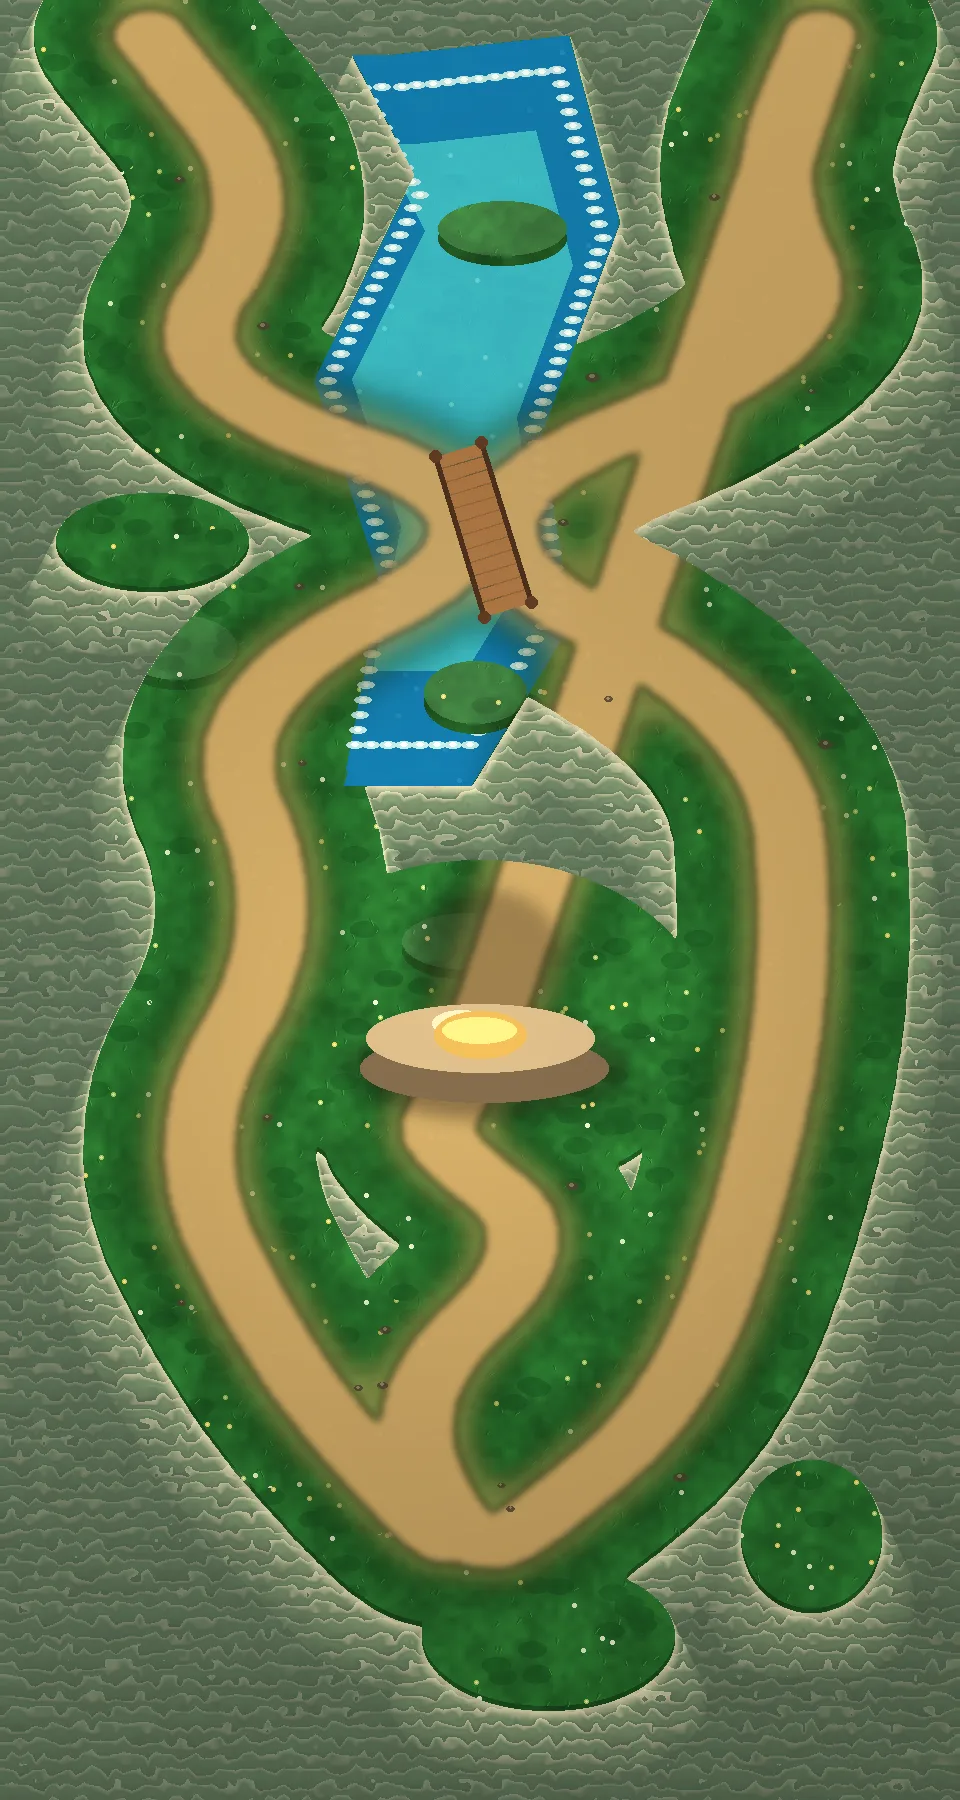
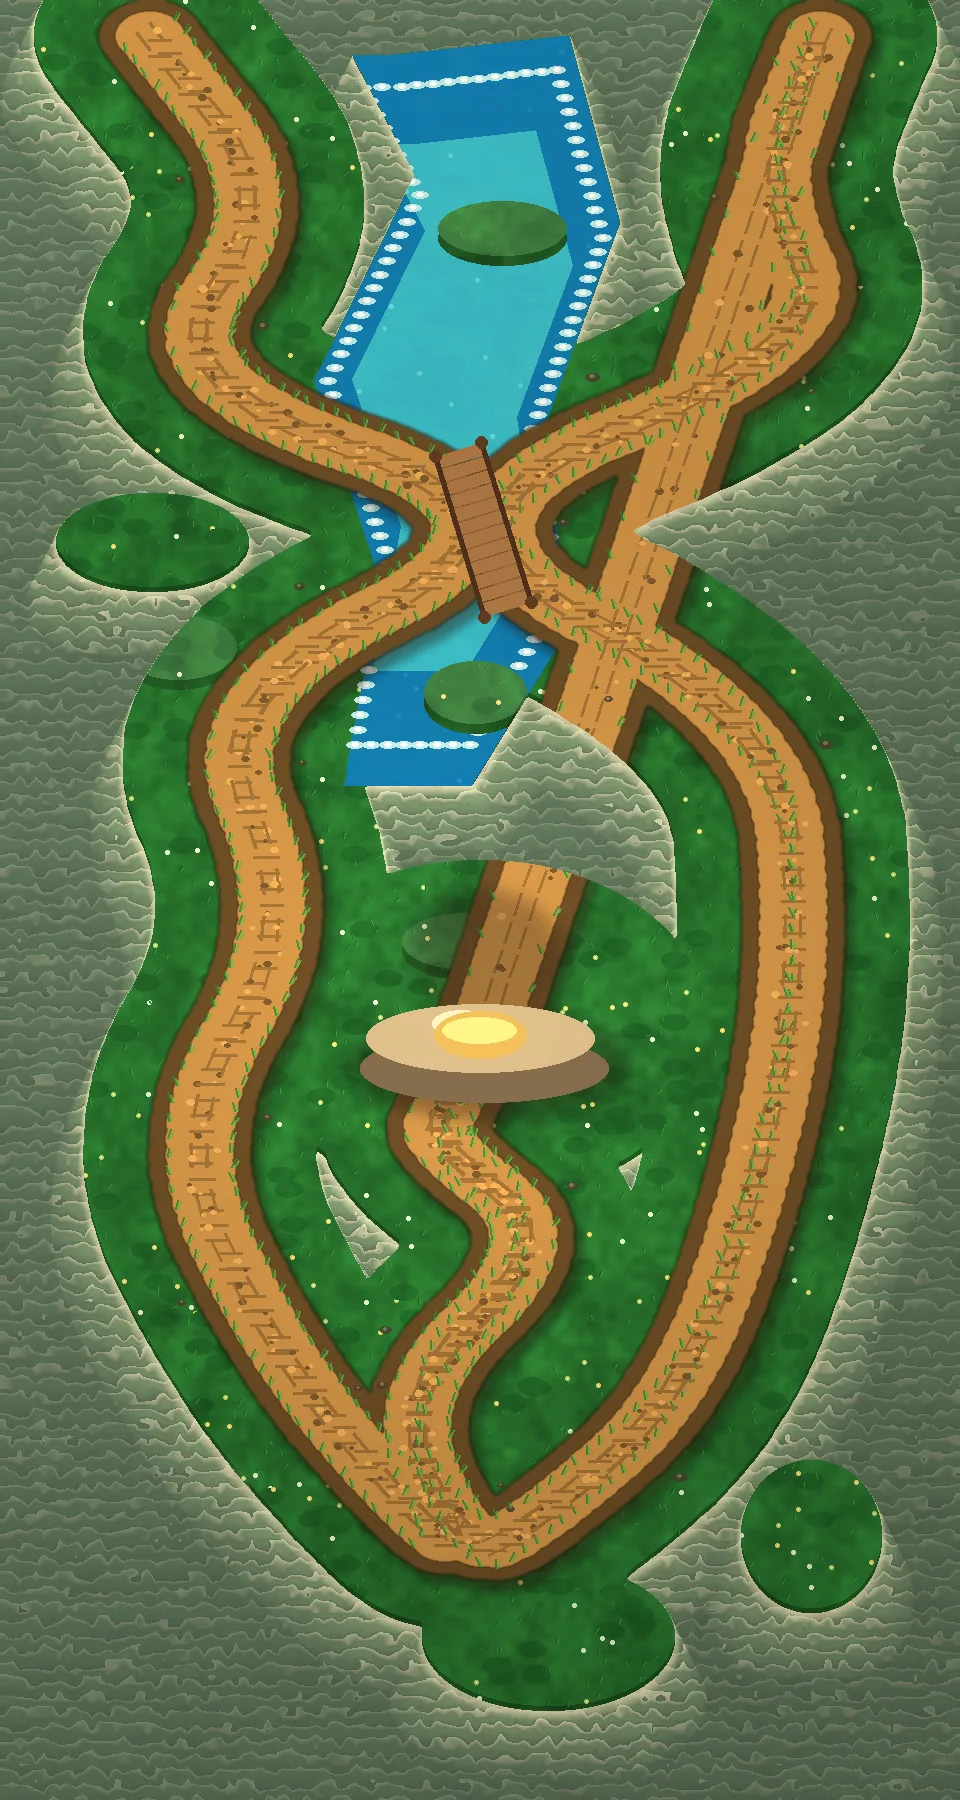
Give every valley road a saturated dirt or stone color.
The painted paths were pale, and Twin Canyon's mint blend disappeared into the grass. Each road is now an opaque warm ribbon with a dark worn edge, a soft shadow, ruts or flagstone joints, pebbles, and grass tufts. Runner Ridge is red clay, the stair valleys are warm gray flagstone, and the others stay in tan, loam, or packed sand. Paths and balance are unchanged.

Changed region(s): [[0.0938, 0.0, 0.9375, 0.9022], [0.4375, 0.4667, 0.625, 0.56]]

diff --git a/sunstone-siege/tools/paint-portrait.py b/sunstone-siege/tools/paint-portrait.py
@@ -17,16 +17,19 @@ SUN = (480, 1040)
 RIM = 46
 
 THEMES = [
-    # top, cliff, path, accent. Deeper greens. Jungle, sandstone, river, canyon, pine, dunes, ruins, ember.
-    ((42, 118, 46), (48, 86, 42), (198, 158, 96), (22, 92, 32)),
-    ((196, 150, 92), (168, 112, 64), (228, 198, 146), (96, 118, 48)),
-    ((36, 112, 74), (42, 86, 64), (168, 188, 146), (24, 88, 108)),
-    ((168, 102, 54), (128, 68, 40), (210, 164, 108), (132, 48, 28)),
-    ((34, 102, 56), (36, 74, 48), (176, 150, 96), (16, 72, 38)),
-    ((214, 168, 104), (176, 92, 54), (236, 204, 150), (150, 78, 44)),
-    ((122, 110, 82), (92, 78, 62), (196, 174, 136), (82, 74, 58)),
-    ((142, 78, 48), (102, 52, 42), (198, 146, 96), (148, 40, 28)),
+    # top, cliff, path, accent. Roads stay warm and saturated so they read on a phone.
+    # Jungle dirt, red clay, canyon dirt, flagstone, forest loam, packed sand, court stone, flagstone.
+    ((42, 118, 46), (48, 86, 42), (196, 138, 66), (22, 92, 32)),
+    ((150, 96, 54), (168, 112, 64), (184, 74, 40), (96, 118, 48)),
+    ((36, 112, 74), (42, 86, 64), (188, 122, 58), (24, 88, 108)),
+    ((168, 102, 54), (128, 68, 40), (168, 150, 124), (132, 48, 28)),
+    ((34, 102, 56), (36, 74, 48), (176, 114, 54), (16, 72, 38)),
+    ((164, 112, 62), (176, 92, 54), (198, 128, 58), (150, 78, 44)),
+    ((112, 98, 70), (92, 78, 62), (186, 130, 70), (82, 74, 58)),
+    ((142, 78, 48), (102, 52, 42), (166, 146, 118), (148, 40, 28)),
 ]
+# Stair valleys wear warm gray flagstone. The others are dirt, clay, or packed sand.
+FLAGSTONE = {3, 7}
 # Jungle valleys drop off grey stone. Desert valleys drop off sandstone.
 DESERT = {1, 3, 5, 7}
 
@@ -658,6 +661,63 @@ def unique_spans(spans: list[tuple[float, float, float, float]], gap: float = 36
     return kept
 
 
+def paint_road(img: Image.Image, stamps: list[tuple[float, float, float]], half: float, base: tuple, index: int, rng: np.random.Generator) -> None:
+    """A saturated cartoony road: a soft shadow, a worn edge, ruts or joints, pebbles, and edge tufts."""
+    if not stamps:
+        return
+    stone = index in FLAGSTONE
+    desert = index in DESERT
+    edge_c = tuple(max(0, int(c * 0.52)) for c in base)
+    rut_c = tuple(max(0, int(c * 0.62)) for c in base)
+    lite = tuple(min(255, int(c * 1.16 + 8)) for c in base)
+    shadow = Image.new("RGBA", img.size, (0, 0, 0, 0))
+    sd = ImageDraw.Draw(shadow)
+    rim = half + 8
+    for x, y, _ang in stamps:
+        sd.ellipse((x - rim + 7, y - rim * 0.72 + 11, x + rim + 7, y + rim * 0.72 + 11), fill=(42, 26, 14, 120))
+    img.alpha_composite(shadow.filter(ImageFilter.GaussianBlur(5)))
+    edge = Image.new("RGBA", img.size, (0, 0, 0, 0))
+    ed = ImageDraw.Draw(edge)
+    for x, y, _ang in stamps:
+        ed.ellipse((x - rim, y - rim * 0.72, x + rim, y + rim * 0.72), fill=edge_c + (255,))
+    img.alpha_composite(edge.filter(ImageFilter.GaussianBlur(1.6)))
+    bed = Image.new("RGBA", img.size, (0, 0, 0, 0))
+    bd = ImageDraw.Draw(bed)
+    core = half * 0.78
+    for x, y, _ang in stamps:
+        bd.ellipse((x - core, y - core * 0.7, x + core, y + core * 0.7), fill=base + (255,))
+    img.alpha_composite(bed.filter(ImageFilter.GaussianBlur(0.8)))
+    detail = Image.new("RGBA", img.size, (0, 0, 0, 0))
+    dd = ImageDraw.Draw(detail)
+    for n, (x, y, ang) in enumerate(stamps):
+        nx, ny = -math.sin(ang), math.cos(ang)
+        dx, dy = math.cos(ang), math.sin(ang)
+        if stone and n % 4 == 0:
+            span = core * 0.85
+            dd.line((x - nx * span, y - ny * span, x + nx * span, y + ny * span), fill=edge_c + (170,), width=2)
+        elif not stone and n % 3 == 0:
+            for side in (-0.22, 0.24):
+                ox, oy = nx * core * side, ny * core * side
+                dd.line((x + ox - dx * 11, y + oy - dy * 11, x + ox + dx * 12, y + oy + dy * 12), fill=rut_c + (150,), width=3)
+        if n % 5 == 0:
+            for _k in range(2):
+                px = x + nx * float(rng.uniform(-core * 0.55, core * 0.55)) + dx * float(rng.uniform(-8, 8))
+                py = y + ny * float(rng.uniform(-core * 0.4, core * 0.4)) + dy * float(rng.uniform(-8, 8))
+                peb = lite if rng.random() > 0.45 else edge_c
+                rad = int(rng.integers(2, 5))
+                dd.ellipse((px - rad, py - rad * 0.7, px + rad, py + rad * 0.7), fill=peb + (210,))
+        if n % 4 == 0:
+            tuft = (168, 132, 58, 220) if desert else (48, 128, 46, 220)
+            tuft2 = (214, 176, 86, 200) if desert else (96, 168, 62, 200)
+            for side in (-1, 1):
+                ox = x + nx * core * 0.92 * side
+                oy = y + ny * core * 0.72 * side
+                lean = int(rng.integers(-4, 5))
+                dd.line((ox, oy, ox + lean, oy - 9), fill=tuft, width=2)
+                dd.line((ox + 2, oy, ox + lean + 3, oy - 7), fill=tuft2, width=2)
+    img.alpha_composite(detail)
+
+
 def stamp_road(draw: ImageDraw.ImageDraw, routes: list[list[tuple[float, float]]], half: int, color: tuple, around: tuple[float, float], reach: float) -> None:
     """Put the dirt back over a landmark so the road stays the brightest shape."""
     core = half * 0.86
@@ -687,7 +747,7 @@ def paint_late(img: Image.Image, index: int, level: dict, half: int) -> None:
     elif index == 2:
         # The fall drops into the pool, below the sun. The road is stamped back on top.
         paint_fall(draw, 520, 1410)
-        stamp_road(draw, routes, half, (168, 188, 146), (520, 1410), 320)
+        stamp_road(draw, routes, half, (188, 122, 58), (520, 1410), 320)
     elif index == 3:
         paint_steps(draw, [280, 560, 860, 1160, 1420], (150, 112, 74), (214, 176, 124), routes, 28, 3)
     elif index == 4:
@@ -781,7 +841,7 @@ def paint_rim(img: Image.Image, mask: np.ndarray, index: int) -> None:
 
 
 def paint(level: dict, theme: tuple, index: int) -> None:
-    top, _cliff, path_c, accent = theme
+    top, _cliff, path_c, _accent = theme
     rng = np.random.default_rng(100 + index)
     road = sample(level["routes"])
     width = int(level["width"])
@@ -893,33 +953,12 @@ def paint(level: dict, theme: tuple, index: int) -> None:
             x0, y0 = road[i]
             x1, y1 = road[i + 1]
             steps = max(1, int(math.hypot(x1 - x0, y1 - y0) / 10))
+            ang = math.atan2(y1 - y0, x1 - x0)
             for s in range(steps + 1):
                 t = s / steps
-                stamps.append((x0 + (x1 - x0) * t, y0 + (y1 - y0) * t))
-        fringe = Image.new("RGBA", (W, H), (0, 0, 0, 0))
-        fd = ImageDraw.Draw(fringe)
-        grass_fringe = (accent[0], min(255, accent[1] + 24), accent[2], 80)
-        reach = half + 36
-        for x, y in stamps[::2]:
-            fd.ellipse((x - reach, y - reach * 0.7, x + reach, y + reach * 0.7), fill=grass_fringe)
-        fringe = fringe.filter(ImageFilter.GaussianBlur(16))
-        img.alpha_composite(fringe)
-        edge = Image.new("RGBA", (W, H), (0, 0, 0, 0))
-        ed = ImageDraw.Draw(edge)
-        dirt_edge = tuple(max(0, int(c) - 18) for c in path_c)
-        rim = half + 18
-        for x, y in stamps:
-            ed.ellipse((x - rim, y - rim * 0.72, x + rim, y + rim * 0.72), fill=dirt_edge + (150,))
-        edge = edge.filter(ImageFilter.GaussianBlur(14))
-        img.alpha_composite(edge)
-        path = Image.new("RGBA", (W, H), (0, 0, 0, 0))
-        path_draw = ImageDraw.Draw(path)
-        core = half * 0.86
-        for x, y in stamps:
-            path_draw.ellipse((x - core, y - core * 0.7, x + core, y + core * 0.7), fill=path_c + (230,))
-        path = path.filter(ImageFilter.GaussianBlur(4))
-        img.alpha_composite(path)
-        # The soft edge stays on the grass. The cliff face keeps its stone.
+                stamps.append((x0 + (x1 - x0) * t, y0 + (y1 - y0) * t, ang))
+        paint_road(img, stamps, half, path_c, index, rng)
+        # The cliff face keeps its stone. The road stays on the plateau.
         painted = np.array(img)
         painted[~mask, :3] = np.clip(rgb[~mask], 0, 255).astype(np.uint8)
         img = Image.fromarray(painted, "RGBA")
